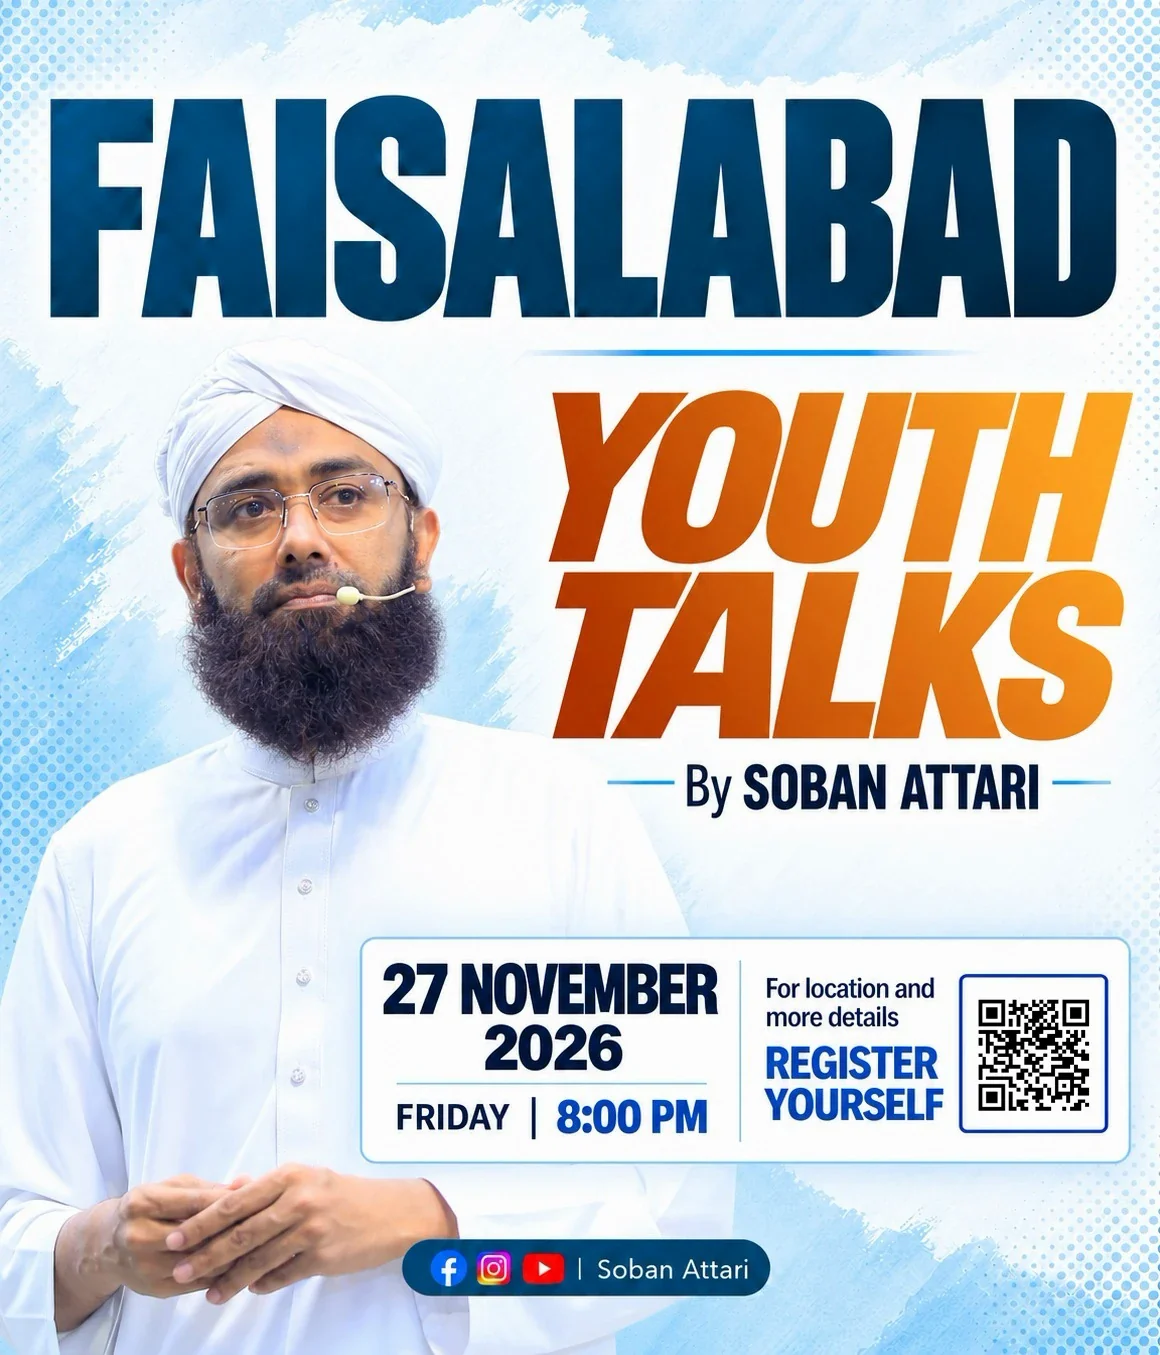
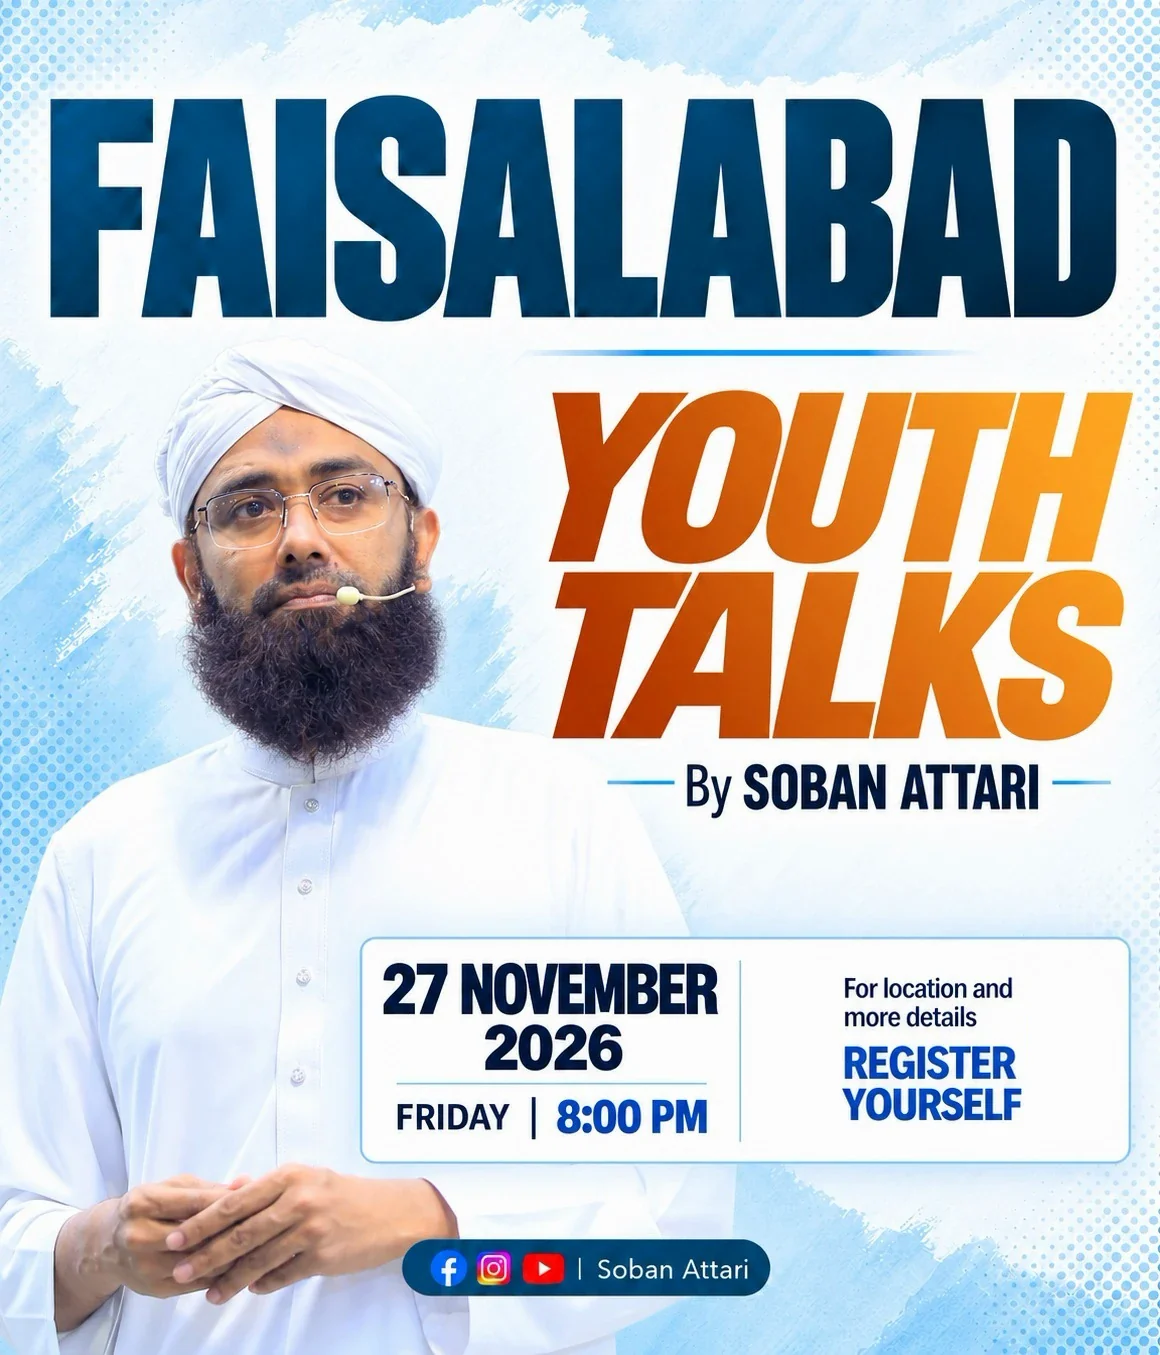
Youth Talks Faisalabad: registration link, poster without QR
- Register Now button (and the poster) open the registration form
- QR code removed from the poster; its text is centred in the box

Claude-Session: https://claude.ai/code/session_012PAoKQbNjgqr5kFqx3Rji7

Changed region(s): [[0.6517, 0.7129, 0.9621, 0.8369]]

diff --git a/events/youth-talks-faisalabad-nov-2026/index.html b/events/youth-talks-faisalabad-nov-2026/index.html
@@ -54,7 +54,7 @@
       "price": "0",
       "priceCurrency": "PKR",
       "availability": "https://schema.org/InStock",
-      "url": "https://www.sobanattari.com/events/youth-talks-faisalabad-nov-2026/"
+      "url": "https://forms.gle/iqZRigB6X35u7Nf59"
     }
   }
   </script>
@@ -110,7 +110,9 @@
   <div class="container">
     <div class="event-hero-grid">
       <div class="event-poster">
-        <img src="/brand_assets/youth-talks-faisalabad-poster.webp" alt="Youth Talks Faisalabad by Soban Attari — Friday 27 November 2026, 8:00 PM" width="1160" height="1355" loading="eager" />
+        <a href="https://forms.gle/iqZRigB6X35u7Nf59" target="_blank" rel="noopener" aria-label="Register for Youth Talks Faisalabad">
+          <img src="/brand_assets/youth-talks-faisalabad-poster.webp" alt="Youth Talks Faisalabad by Soban Attari — Friday 27 November 2026, 8:00 PM" width="1160" height="1355" loading="eager" />
+        </a>
       </div>
       <div class="event-header">
         <span class="section-label">Upcoming Event</span>
@@ -123,7 +125,7 @@
         </div>
         <p class="event-lede">Youth Talks with Soban Attari is coming to Faisalabad &mdash; an onsite session for university students and young professionals. Register to get the location and more details.</p>
         <div class="event-hero-actions">
-          <a href="https://whatsapp.com/channel/0029VaCXU29CxoB2JMf6Py1u" target="_blank" rel="noopener" class="btn btn-primary">Get Location &amp; Details</a>
+          <a href="https://forms.gle/iqZRigB6X35u7Nf59" target="_blank" rel="noopener" class="btn btn-primary">Register Now</a>
         </div>
       </div>
     </div>
